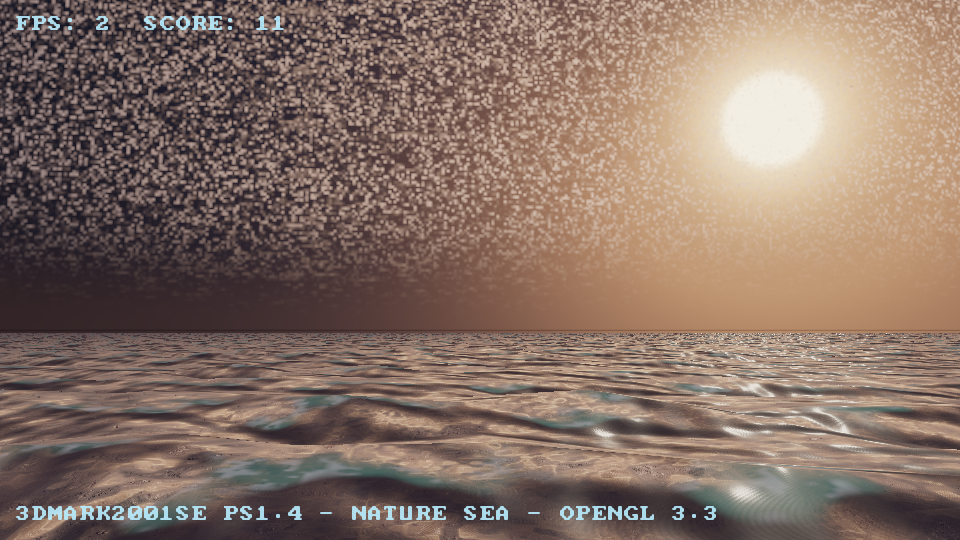
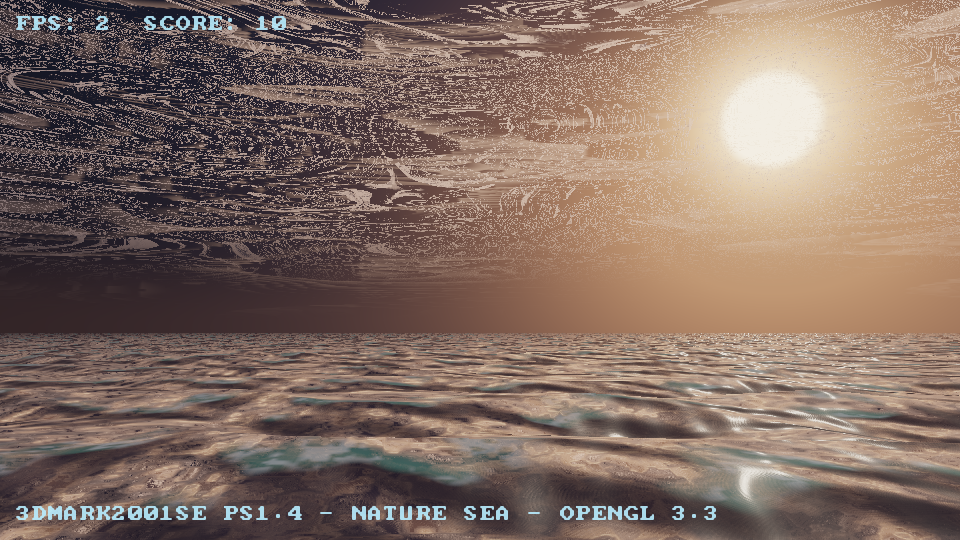
PS14: render the sky directly at screen res — kills the magnified squares
Root cause of the persistent white squares: the visible sky was rebuilt
from the env cubemap (DrawSkyView sampled gEnvCube), so its detail was
capped at cubemap resolution no matter the sky shader — squares just
shrank as the cubemap grew. The dome shader now draws straight to the
screen at full resolution (uTonemap=1, positioned at the camera); the
cubemap stays only for sea reflections, where its blur is invisible.

Also:
- Dome mesh is a full sphere now (was upper hemisphere only — exposed a
  2-row clear-color gap between horizon and sea edge)
- Sea haze samples the cubemap at the fragment's horizon azimuth instead
  of a constant colour, so the far edge converges into the actual sky
  band (bright on the sun side, dark away) — no seam
- Clouds rebuilt as big smooth banks: spectrum-biased fBm (55/30/15),
  low base frequencies with the anisotropy the right way round, wide
  threshold ramps, 2-octave sky noise texture. The dash/confetti grain
  came from high-frequency streak layers + baked detail octaves, not
  the sampler
- README: correct binary name (PS14SeaBenchmark — the documented
  ElectroBenchPS14 was a stale CMake-era artifact), remove the fixed
  sea-fill caveat, describe the new sky/sea architecture

Generated with Codebuff 🤖

diff --git a/README.md b/README.md
@@ -20,8 +20,8 @@ Close-up — mags resting on the ground, shadows clearly visible under each gun:
 The `ps14-sea-benchmark` branch adds a second, heavier benchmark written in **OpenGL 3.3 core** that recreates the pixel shader 1.4 workload from 3DMark2001 SE: an ocean under a cloudy sky with real-time reflections.
 
 What it renders :
-- A procedural **sky dome** with two layers of drifting fBm clouds, captured every frame into a **cubemap** (the PS1.4-era trick for dynamic reflections)
-- A **256x256 ocean grid** displaced on the GPU by a 6-octave wave function
+- A procedural **sky dome** with big smooth dusk cloud banks, rendered **directly at full screen resolution** — plus a cubemap capture of the same sky used for the sea's reflections (low-res there is invisible and cheap)
+- A **4 km ocean patch** (far plane 6000) displaced on the GPU by a 6-octave wave function, haze-matched to the per-azimuth horizon colour so it melts into the sky
 - Water shading structured like an asm `ps_1_4` shader: ripple-gradient **addressing** phase, a **dependent read** into the environment cubemap for reflections, then fresnel blending, sun **glitter**, foam crests and distance haze
 - The same score formula as the main benchmark, over a 45 second run
 
@@ -29,6 +29,8 @@ Build and run it with :
 
 ```sh
 make
+./build/PS14SeaBenchmark          # Linux / macOS
+./build/PS14SeaBenchmark.exe      # Windows (MSYS2)
 ```
 
 Controls : `F` toggles the automatic fly-over camera, long-click + move orbits the camera, mouse wheel zooms, arrow keys look around, `ESC` quits.
@@ -36,10 +38,10 @@ Controls : `F` toggles the automatic fly-over camera, long-click + move orbits t
 Headless visual-test flags (used to verify the render output in CI-like environments):
 
 ```sh
-./build/ElectroBenchPS14 --width 960 --screenshot /tmp/shot.ppm --shot-times 6,20,38
+./build/PS14SeaBenchmark --width 960 --screenshot /tmp/shot.ppm --shot-times 6,20,38
 ```
 
-The sunset scene at 35s into the run (golden horizon, dark blue sky away from the sun, yellow sun with glitter reflection, choppy seas): (small bug, the sea isnt filling the entire screen, will be fixed soon)
+The sunset scene at 35s into the run (big cloud banks, warm sun with glitter reflection, dark sea haze-matched into the horizon):
 
 ![PS1.4 sea benchmark](docs/screenshots/ps14_dusk_t36.png)
 
